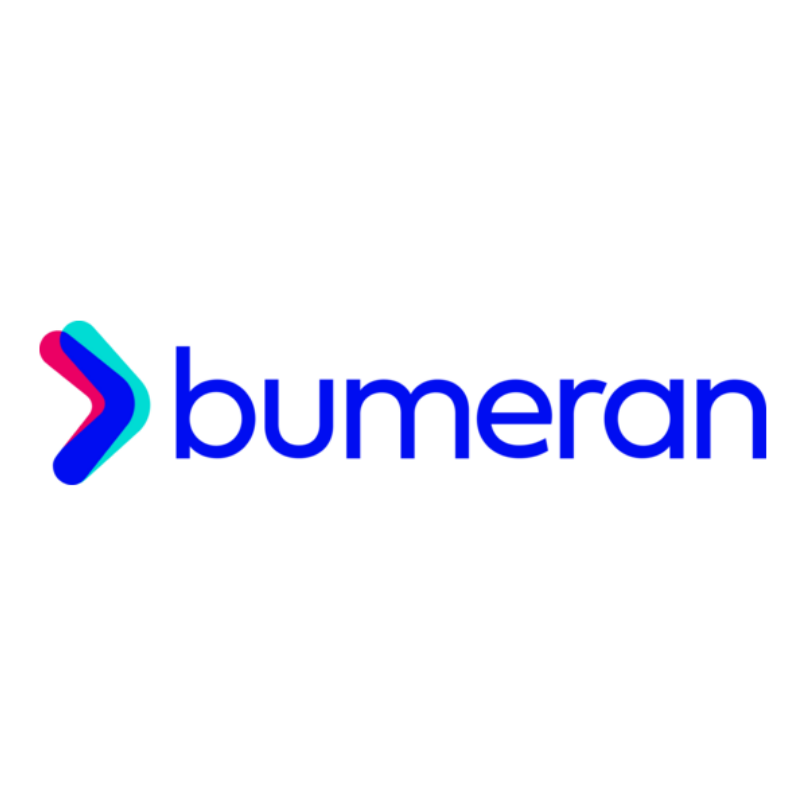
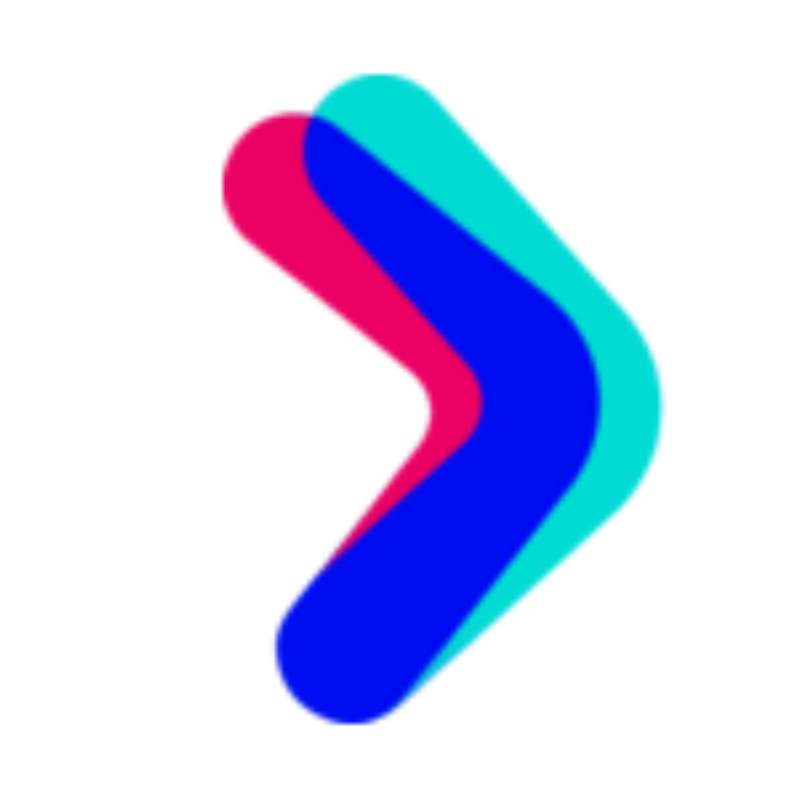
íconos de los portales

Changed region(s): [[0.2171, 0.062, 0.9615, 0.8995], [0.031, 0.3722, 0.1861, 0.6203]]

diff --git a/index.html b/index.html
@@ -324,28 +324,28 @@
           <div class="tab-panel" id="tab-primer">
             <div class="portal-grid">
               <div class="portal-card">
-                <div class="portal-ico" style="background:#DAE8FB; color:#3E5BA3;">ZN</div>
+                <div class="portal-ico" style="background:#DAE8FB; color:#3E5BA3;"><img src="img/zonajobs.png" alt=""></div>
                 <div class="portal-info">
                   <h4><a href= "https://www.zonajobs.com.ar/" target="_blank"> Zonajobs </a></h4>
                   <p>Gran volumen en Argentina con filtros por experiencia. Ideal para perfiles junior.</p>
                 </div>
               </div>
               <div class="portal-card">
-                <div class="portal-ico" style="background:#F2D2FF; color:#7c3aed;">BZ</div>
+                <div class="portal-ico" style="background:#F2D2FF; color:#7c3aed;"><img src="img/bumeran.png" alt=""></div>
                 <div class="portal-info">
                   <h4><a href="https://www.bumeran.com.ar/" target="_blank"> Bumeran </a></h4>
                   <p>Portal muy activo con muchas empresas que buscan candidatos sin experiencia requerida.</p>
                 </div>
               </div>
               <div class="portal-card">
-                <div class="portal-ico" style="background:#C8F0F2; color:#0e7a80;">LI</div>
+                <div class="portal-ico" style="background:#C8F0F2; color:#0e7a80;"><img src="img/linkedin.png" alt=""></div>
                 <div class="portal-info">
                   <h4><a href="https://www.linkedin.com/" target="_blank"> LinkedIn </a></h4>
                   <p>Fundamental para construir perfil profesional desde el inicio. Muchas empresas solo publican ahí.</p>
                 </div>
               </div>
               <div class="portal-card">
-                <div class="portal-ico" style="background:#dce8ff; color:#3E5BA3;">GB</div>
+                <div class="portal-ico" style="background:#dce8ff; color:#3E5BA3;"><img src="img/gob.png" alt=""></div>
                 <div class="portal-info">
                   <h4><a href="https://www.getonbrd.com.ar/" target="_blank"> Get On Board </a></h4>
                   <p>Especializado en tecnología y startups. Excelente para perfiles tech aunque sean junior.</p>

diff --git a/styles.css b/styles.css
@@ -698,6 +698,10 @@ ul { list-style: none; }
   font-weight: 800;
   flex-shrink: 0;
 }
+.portal-ico img {
+  width: 44px; height: 44px;
+  border-radius: var(--r-sm);
+}
 .portal-info h4 { font-size: .92rem; font-weight: 700; color: var(--navy); margin-bottom: .3rem; }
 .portal-info p  { font-size: .82rem; color: var(--gray); line-height: 1.5; }
 
